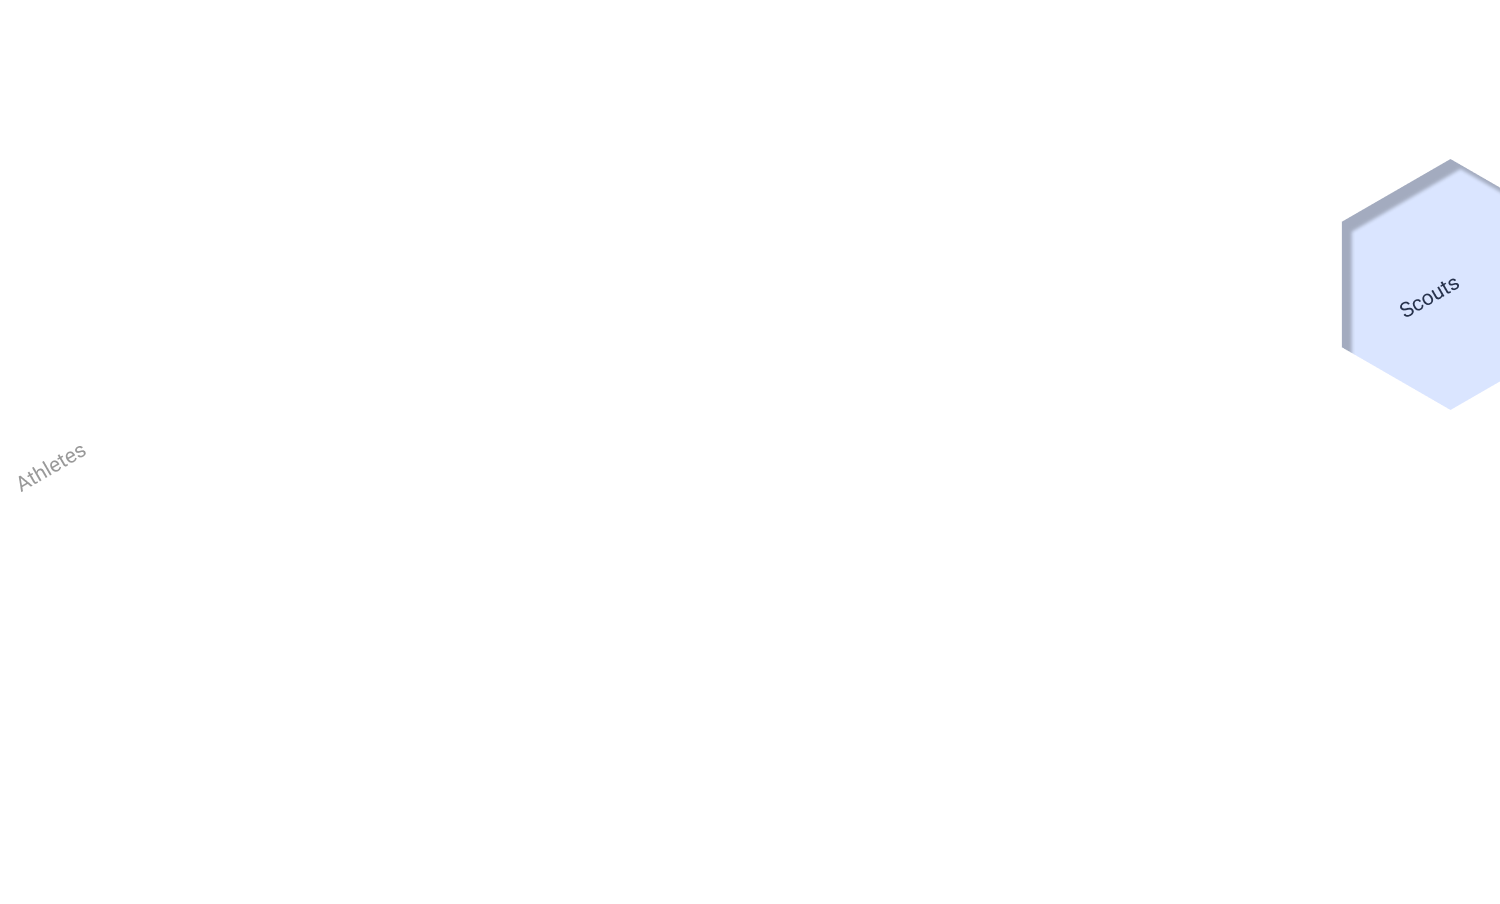
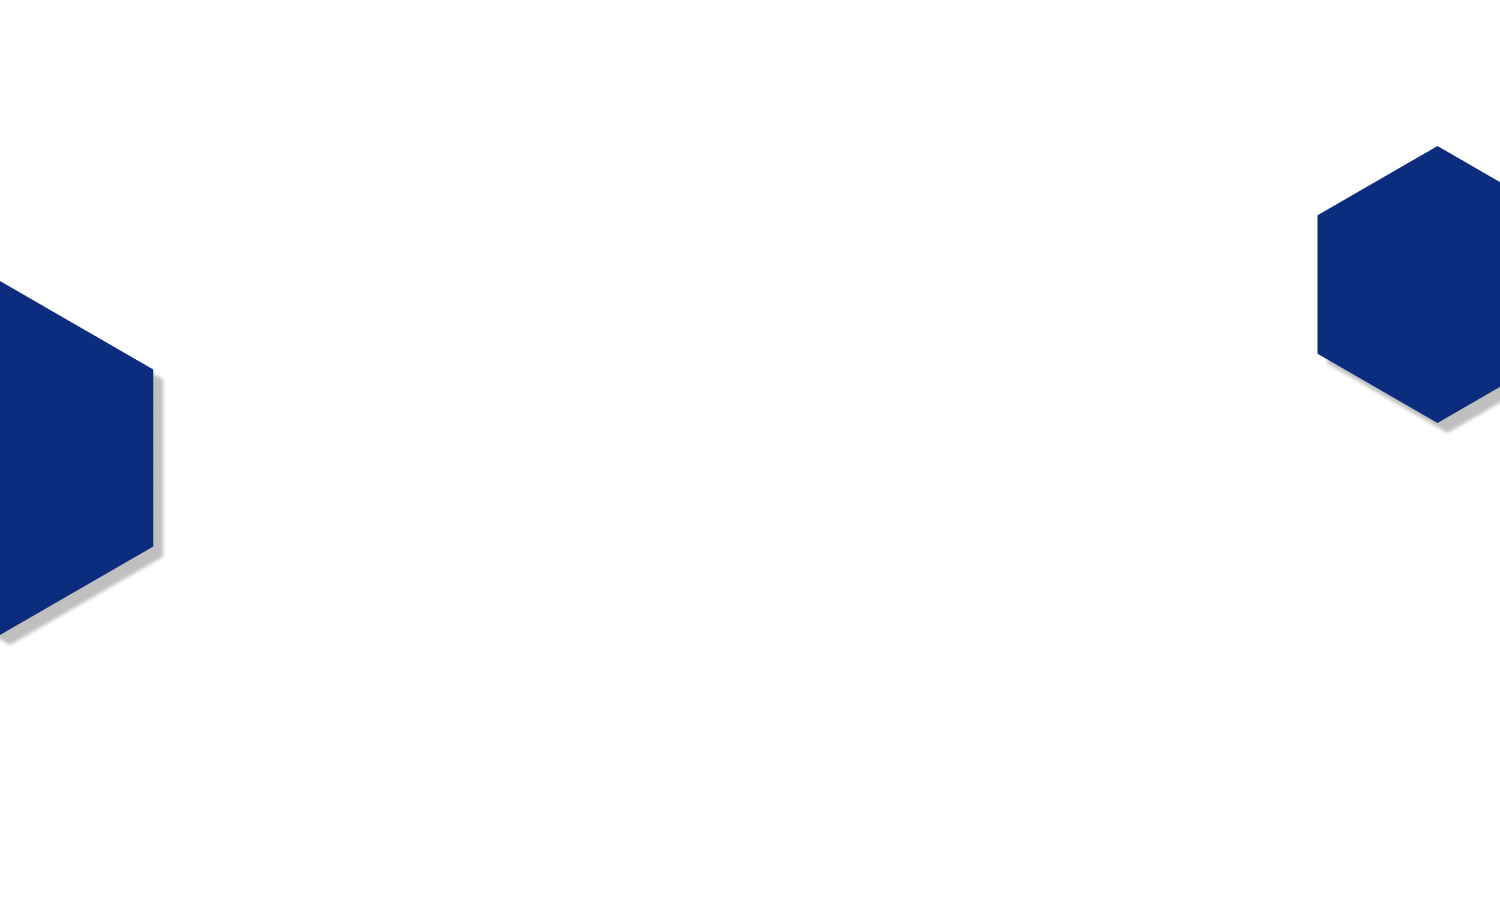
changes

Changed region(s): [[0.8587, 0.1549, 1.0, 0.4956], [0.0, 0.3097, 0.1227, 0.7124]]

diff --git a/src/sections/Heading.js b/src/sections/Heading.js
@@ -21,7 +21,7 @@ function ScrollDownWeb() {
 }
 function ScrollDownApp() {
   window.scroll({
-    top: 800,
+    top: 1550,
     behavior: "smooth",
   });
 }
@@ -32,7 +32,7 @@ export const Heading = ({ modal, setModal, value, setValue }) => {
   return (
     <Styles className="setPadding">
       <div>
-        {/* <img src={BgImage} alt="" /> */}
+        <img src={BgImage} alt="" />
         <h1>{data.mainTitle}</h1>
         <p>{data.mainDescription}</p>
         <div className="input">
@@ -71,6 +71,7 @@ const Styles = styled(motion.div)`
     background-repeat: no-repeat; /* Do not repeat the image */
     background-size: cover;
     z-index: -100;
+    opacity: 0.4;
   }
   p {
     margin: 20px 0;

diff --git a/src/assets/Text.js b/src/assets/Text.js
@@ -3,12 +3,12 @@ export var data = {
   logoLabel: "Star Athlete",
   buttonNav: "Become a star",
   //Heading section
-  mainTitle: "Lorem ipsum dolor sit amet amet!",
+  mainTitle: "Goodbye Agents. Hello Scouts",
   mainDescription:
-    "Lorem ipsum dolor sit amet consectetur adipisicing elit. Laudantium eveniet quos architect",
+    "Platform that aims to connect scouts and athletes and ease the process.",
   buttonLabel: "Join us",
   placeholder: "Enter your email",
-  watchBtn: " Watch video",
+  watchBtn: "Watch video",
 
   //Video section
   videoTitle: "What is Star Athlete?",

diff --git a/src/sections/Video.js b/src/sections/Video.js
@@ -67,7 +67,7 @@ const Styles = styled(motion.div)`
     width: 100%;
     text-align: center;
     position: absolute;
-    z-index: 11;
+    z-index: 6;
     cursor: pointer;
     padding: 30px;
     height: 100%;
